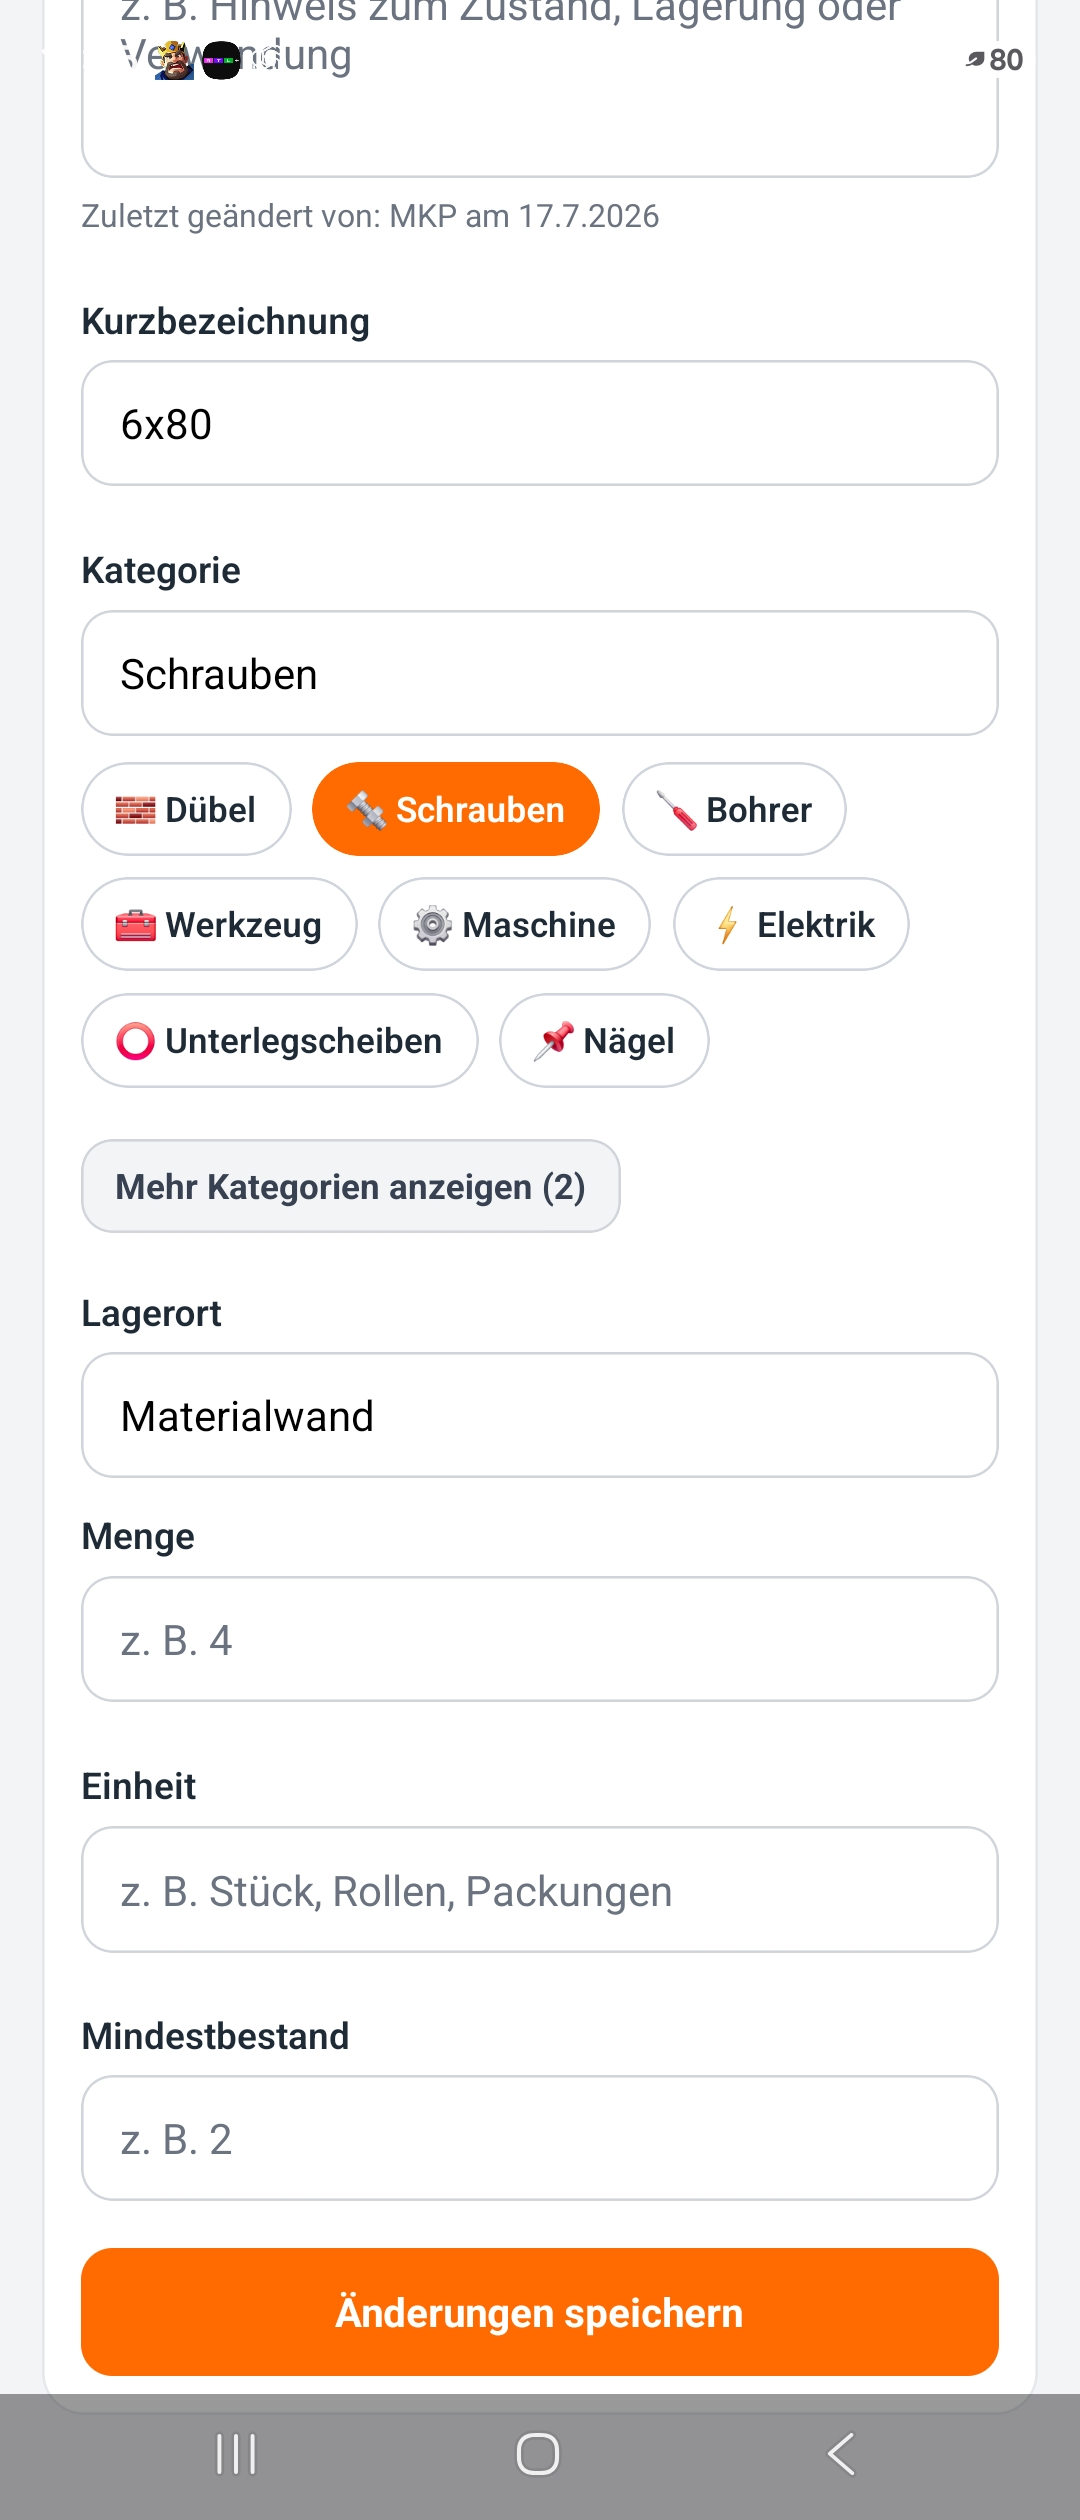
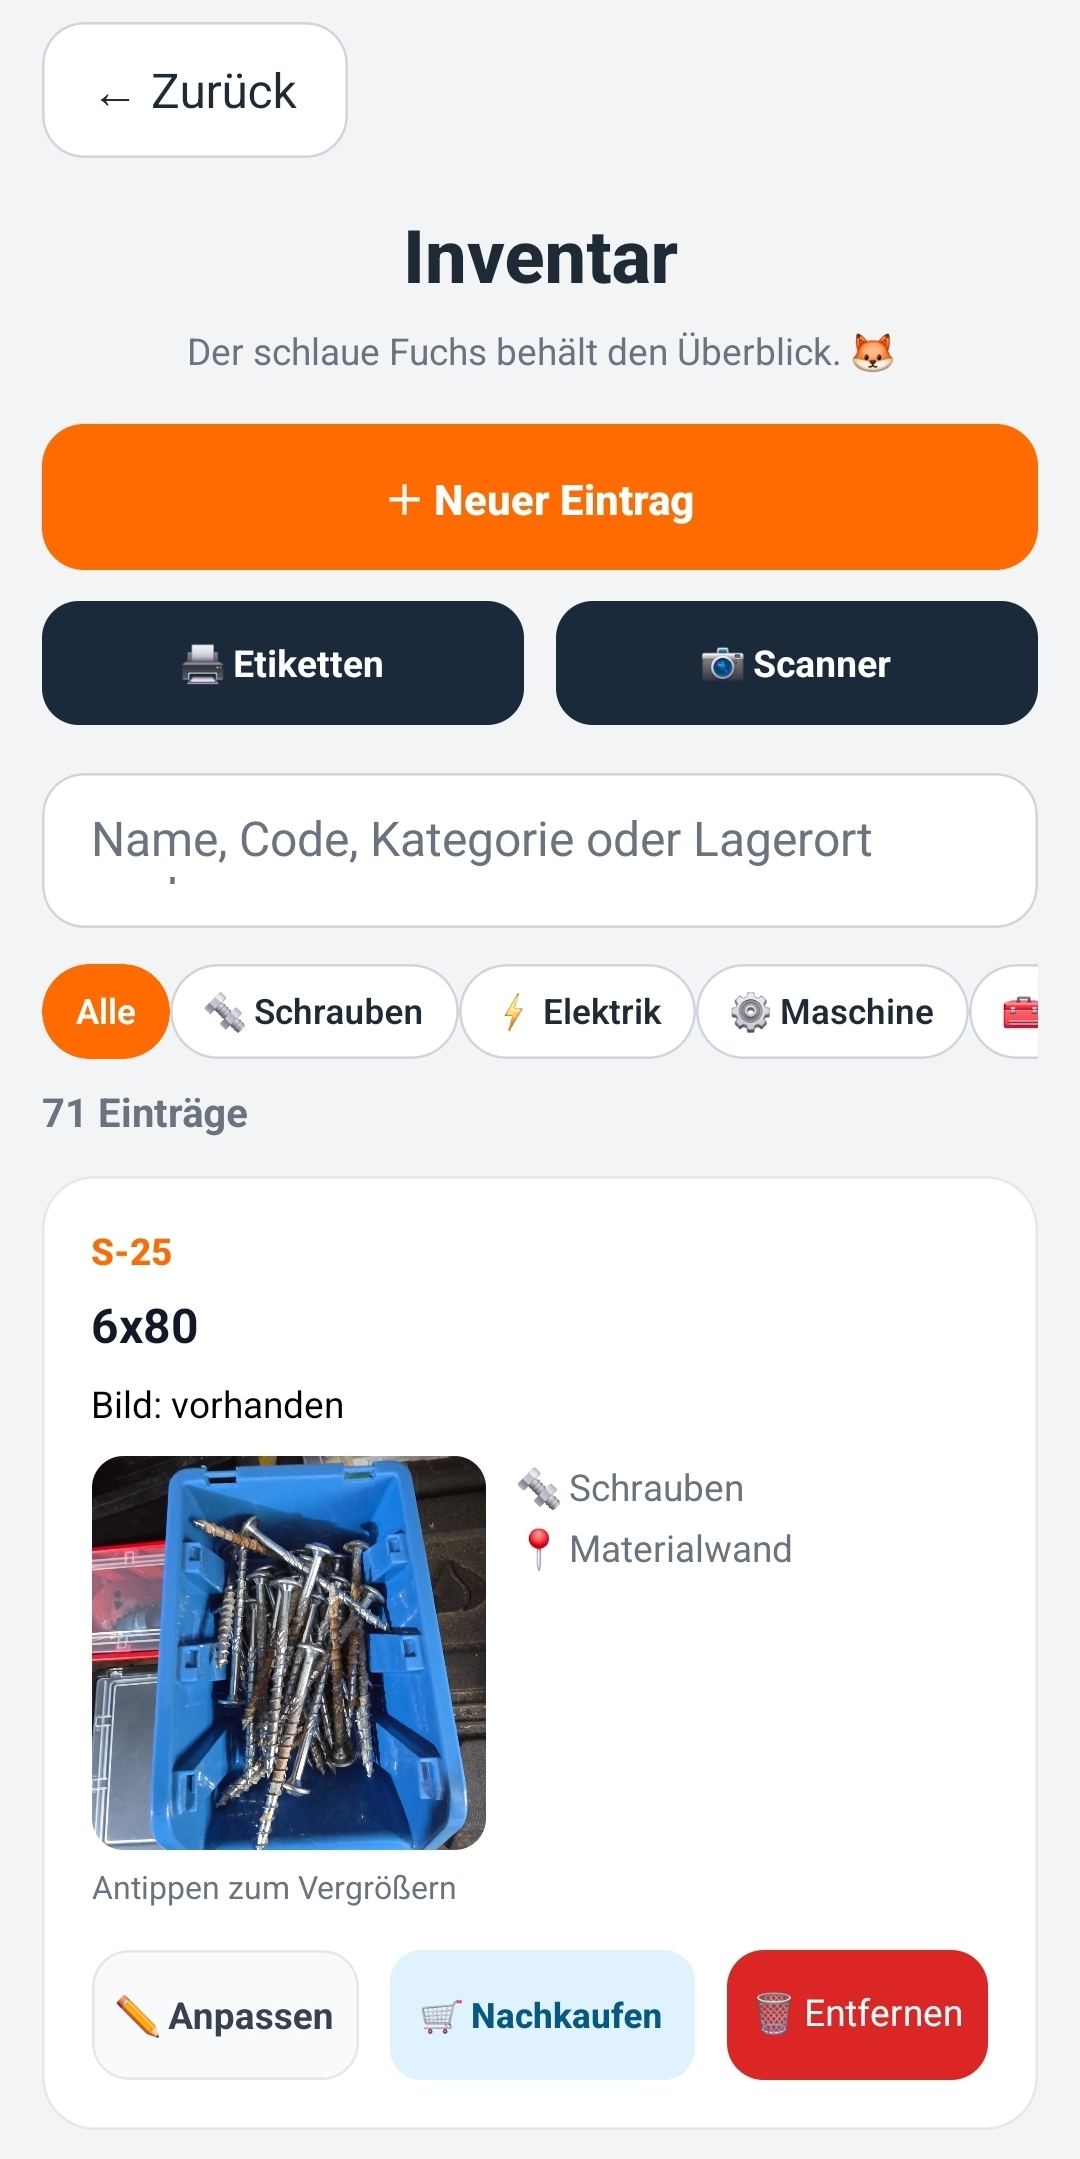
Align homepage screenshot cards

diff --git a/index.html b/index.html
@@ -322,11 +322,16 @@
         padding: 12px;
         box-shadow: 0 10px 24px rgba(15, 23, 42, 0.06);
         text-align: center;
+        display: flex;
+        flex-direction: column;
+        height: 100%;
       }
 
       .screenshot-card img {
         width: 100%;
-        height: auto;
+        height: 440px;
+        object-fit: contain;
+        object-position: top center;
         border-radius: 14px;
         display: block;
       }
